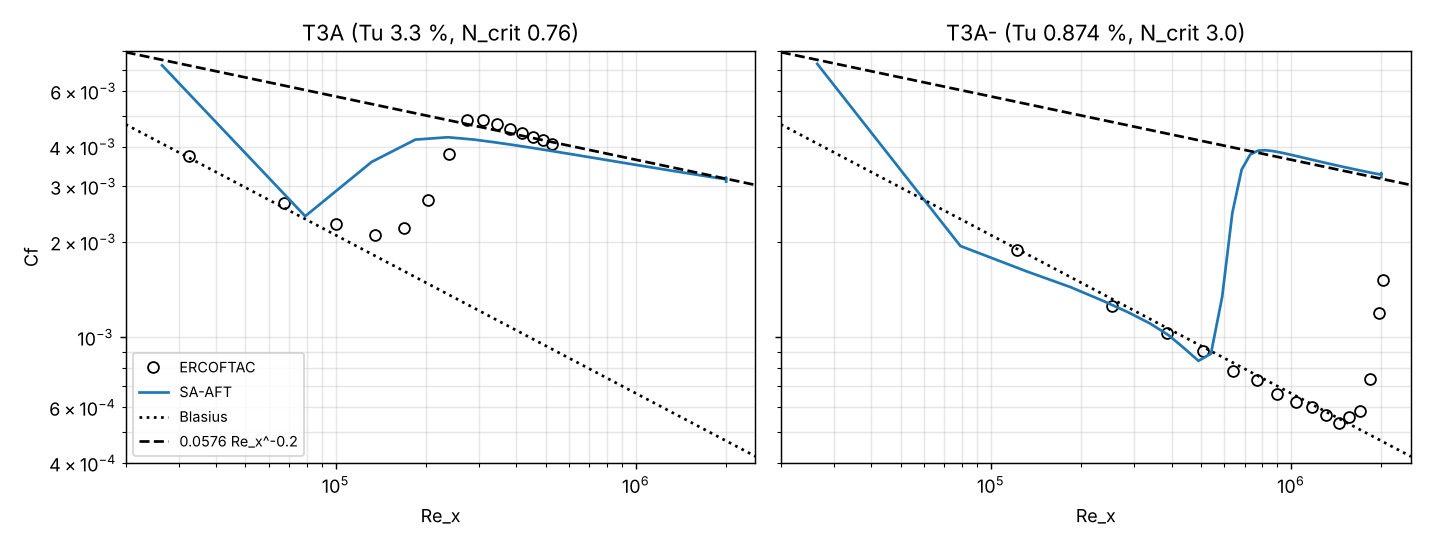
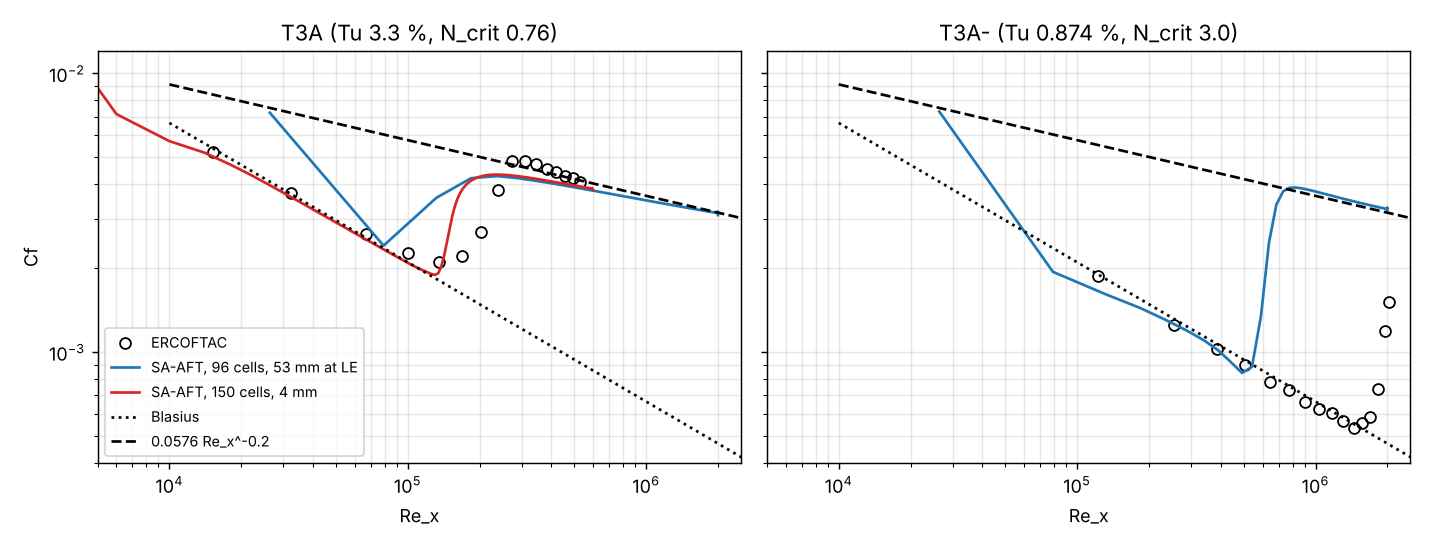
Validation: T3A on a fine streamwise mesh against the ERCOFTAC data
Claude-Session: https://claude.ai/code/session_01Kw3e6drMoN1aETDbMqQxhp

diff --git a/docs/requirements.md b/docs/requirements.md
@@ -97,7 +97,7 @@ Status: 2026-10-13, requirements complete (steps 1–13). Implementation follows
 |----|---------|-------|
 | L1 | Compressible solver | Reuses mesh, gradients, limiters, linear solver and boundary-condition framework. Whether transonic flow is a target is not yet decided (P4) |
 | L2 | SST turbulence model | SU2 reference implementation, version V2003m (SST-2003m). **Implemented in 0.9.** Formulation one-to-one from SU2 (`CSourcePieceWise_TurbSST`, `CTurbSSTVariable::SetBlendingFunc`, `CTurbSSTSolver`): strain-based ν_t limiter and production, production limiter 10, cross diffusion as a source (SU2 ≤ 7.5), wall ω = 60ν/(β₁d₁²) with d₁ the wall-cell height, update under-relaxation (MAX_UPDATE_SST). Additions for the coupled cell-centred solver: two-point normal derivative for the k, ω diffusion, ω row scaled by ν, residual face viscosities in the first-order Jacobian. Not yet: V1994m, sustaining terms, the SST-based γ-Re_θ (L3 step 4) |
-| L3 | Transition models | Step by step, each validated before the next: (1) SA-BCM (algebraic intermittency on the SA production, SA-noft2, 2020 constants; **done in 0.8**, plate verification in `docs/validation.md` §7, airfoil validation on the Eppler 387 pending); (2) SA-AFT (AFT2019b of the NASA TMR: SA plus two transport equations for a modified intermittency and the amplification factor, an e^N-type criterion with N_crit from the turbulence intensity, so XFOIL comparable; 6 unknowns per cell, about 2x the BCM cost; **implemented in 0.9 (`physics.transition.model = "aft"`, design note `docs/aft_design.md`), flat-plate verification against the e^N estimate, T3A/T3A− plates and E387 against XFOIL, NASA TM 4062 and Penn State in `docs/validation.md` §8; open there: T3A− transition 3x too early against the ERCOFTAC data (e^N relation), E387 drag 9–14 % below the experiments, α −2° and 8° not converged**; chosen over γ-Re_θ for the XFOIL comparison, γ-Re_θ stays as (4)); (3) SST (L2) as the base for (4) Langtry–Menter γ-Re_θ. Numerics: the SA source Jacobian in the first-order system is clipped to its negative part; the intermittency is frozen in every linearisation (Picard on γ, as SU2; residual unchanged, neither the JVP nor the first-order Jacobian differentiates γ, whose square roots have unbounded slope); BCM needs a laminar freestream (ν̃/ν ≈ 0.1) and can have several steady states on a coarse laminar boundary layer |
+| L3 | Transition models | Step by step, each validated before the next: (1) SA-BCM (algebraic intermittency on the SA production, SA-noft2, 2020 constants; **done in 0.8**, plate verification in `docs/validation.md` §7, airfoil validation on the Eppler 387 pending); (2) SA-AFT (AFT2019b of the NASA TMR: SA plus two transport equations for a modified intermittency and the amplification factor, an e^N-type criterion with N_crit from the turbulence intensity, so XFOIL comparable; 6 unknowns per cell, about 2x the BCM cost; **implemented in 0.9 (`physics.transition.model = "aft"`, design note `docs/aft_design.md`), flat-plate verification against the e^N estimate, T3A/T3A− plates and E387 against XFOIL, NASA TM 4062 and Penn State in `docs/validation.md` §8; open there: T3A− transition 3x too early against the ERCOFTAC data (e^N relation), T3A onset right but transition too abrupt, E387 drag 9–14 % below the experiments, α −2° and 8° not converged**; chosen over γ-Re_θ for the XFOIL comparison, γ-Re_θ stays as (4)); (3) SST (L2) as the base for (4) Langtry–Menter γ-Re_θ. Numerics: the SA source Jacobian in the first-order system is clipped to its negative part; the intermittency is frozen in every linearisation (Picard on γ, as SU2; residual unchanged, neither the JVP nor the first-order Jacobian differentiates γ, whose square roots have unbounded slope); BCM needs a laminar freestream (ν̃/ν ≈ 0.1) and can have several steady states on a coarse laminar boundary layer |
 | L4 | PyAero integration | Read PyAero-exported `.su2` meshes with boundary markers; airfoil cases; later coupling with PyAero |
 | L5 | Further turbulence models | Through D13, e.g. Wilcox k-ω |
 | L6 | Gmsh mesh reader | `.msh`, physical groups as boundary-face names |
